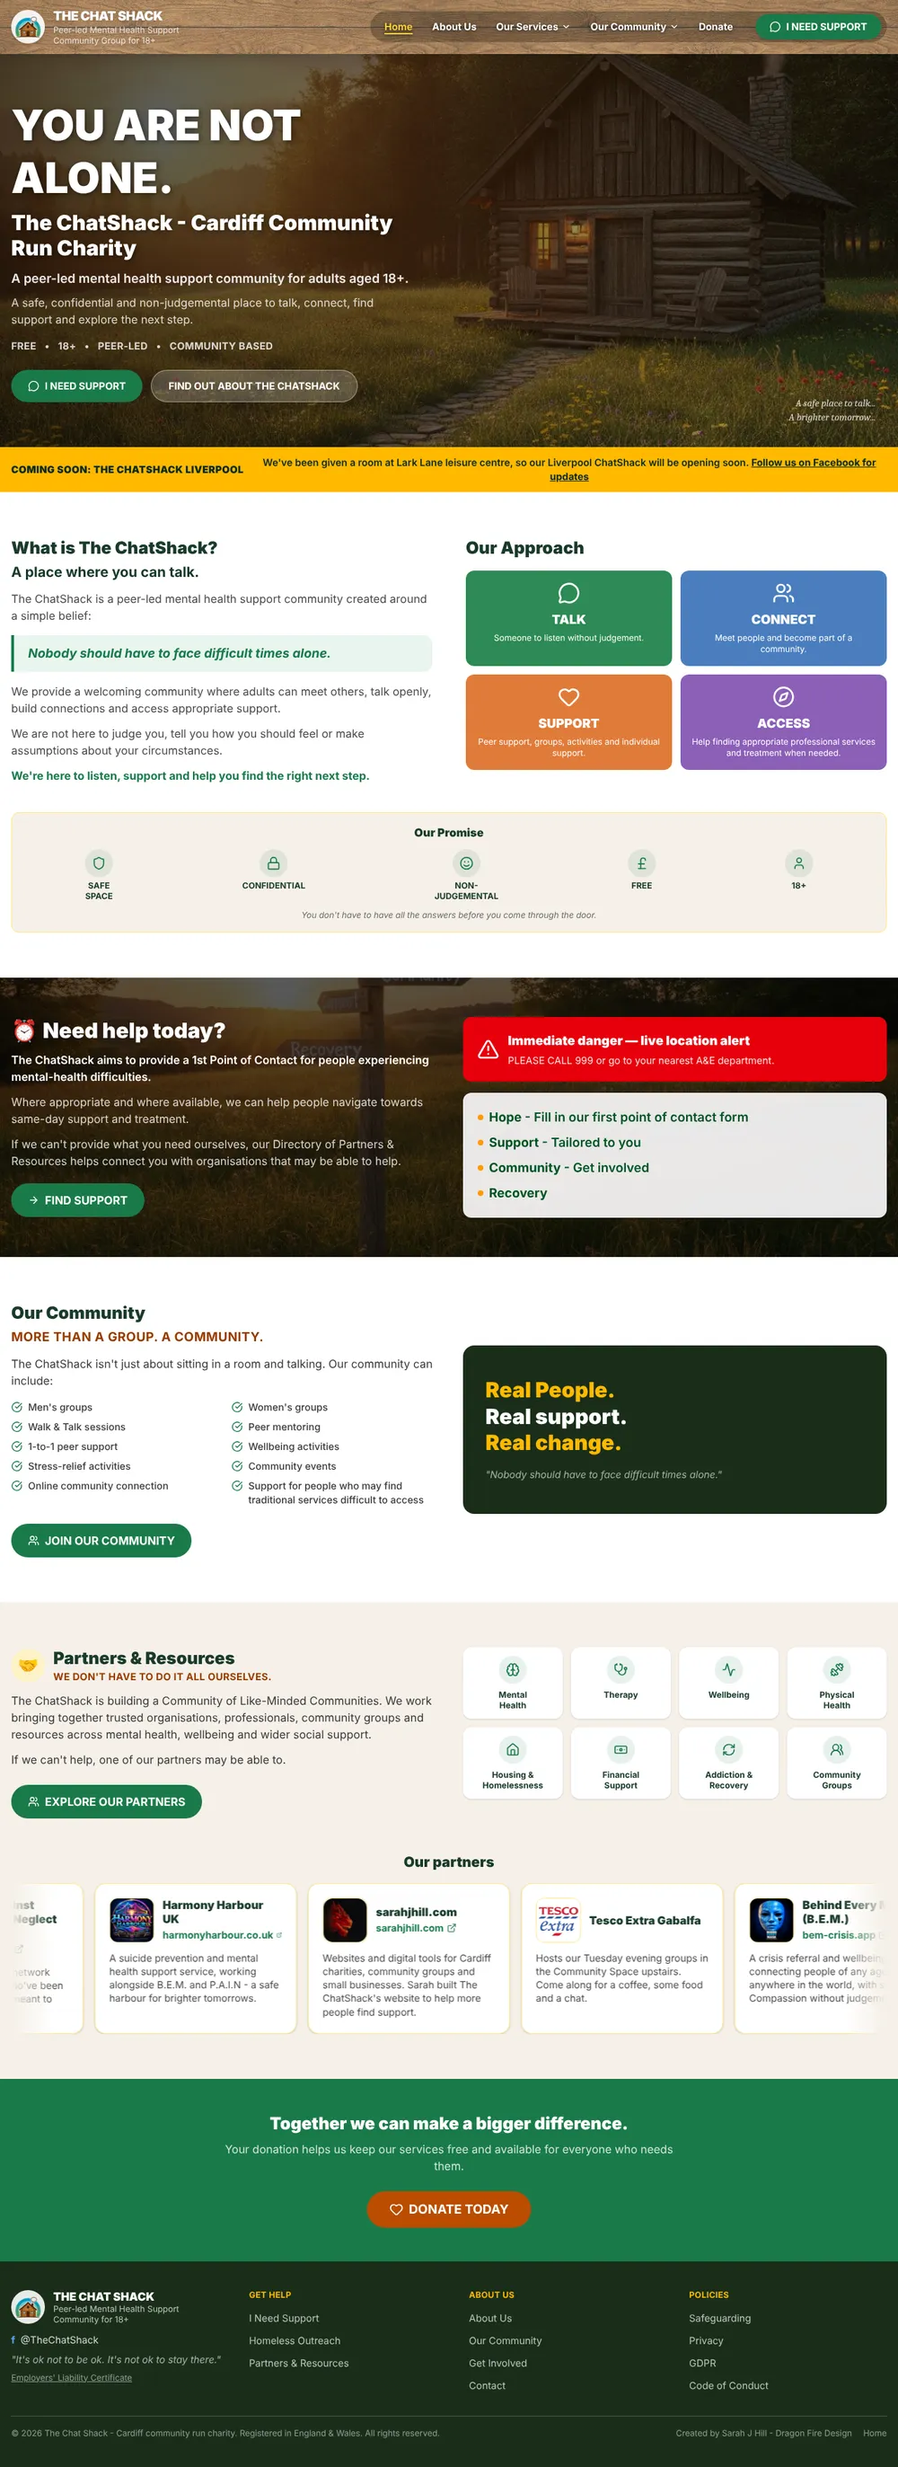
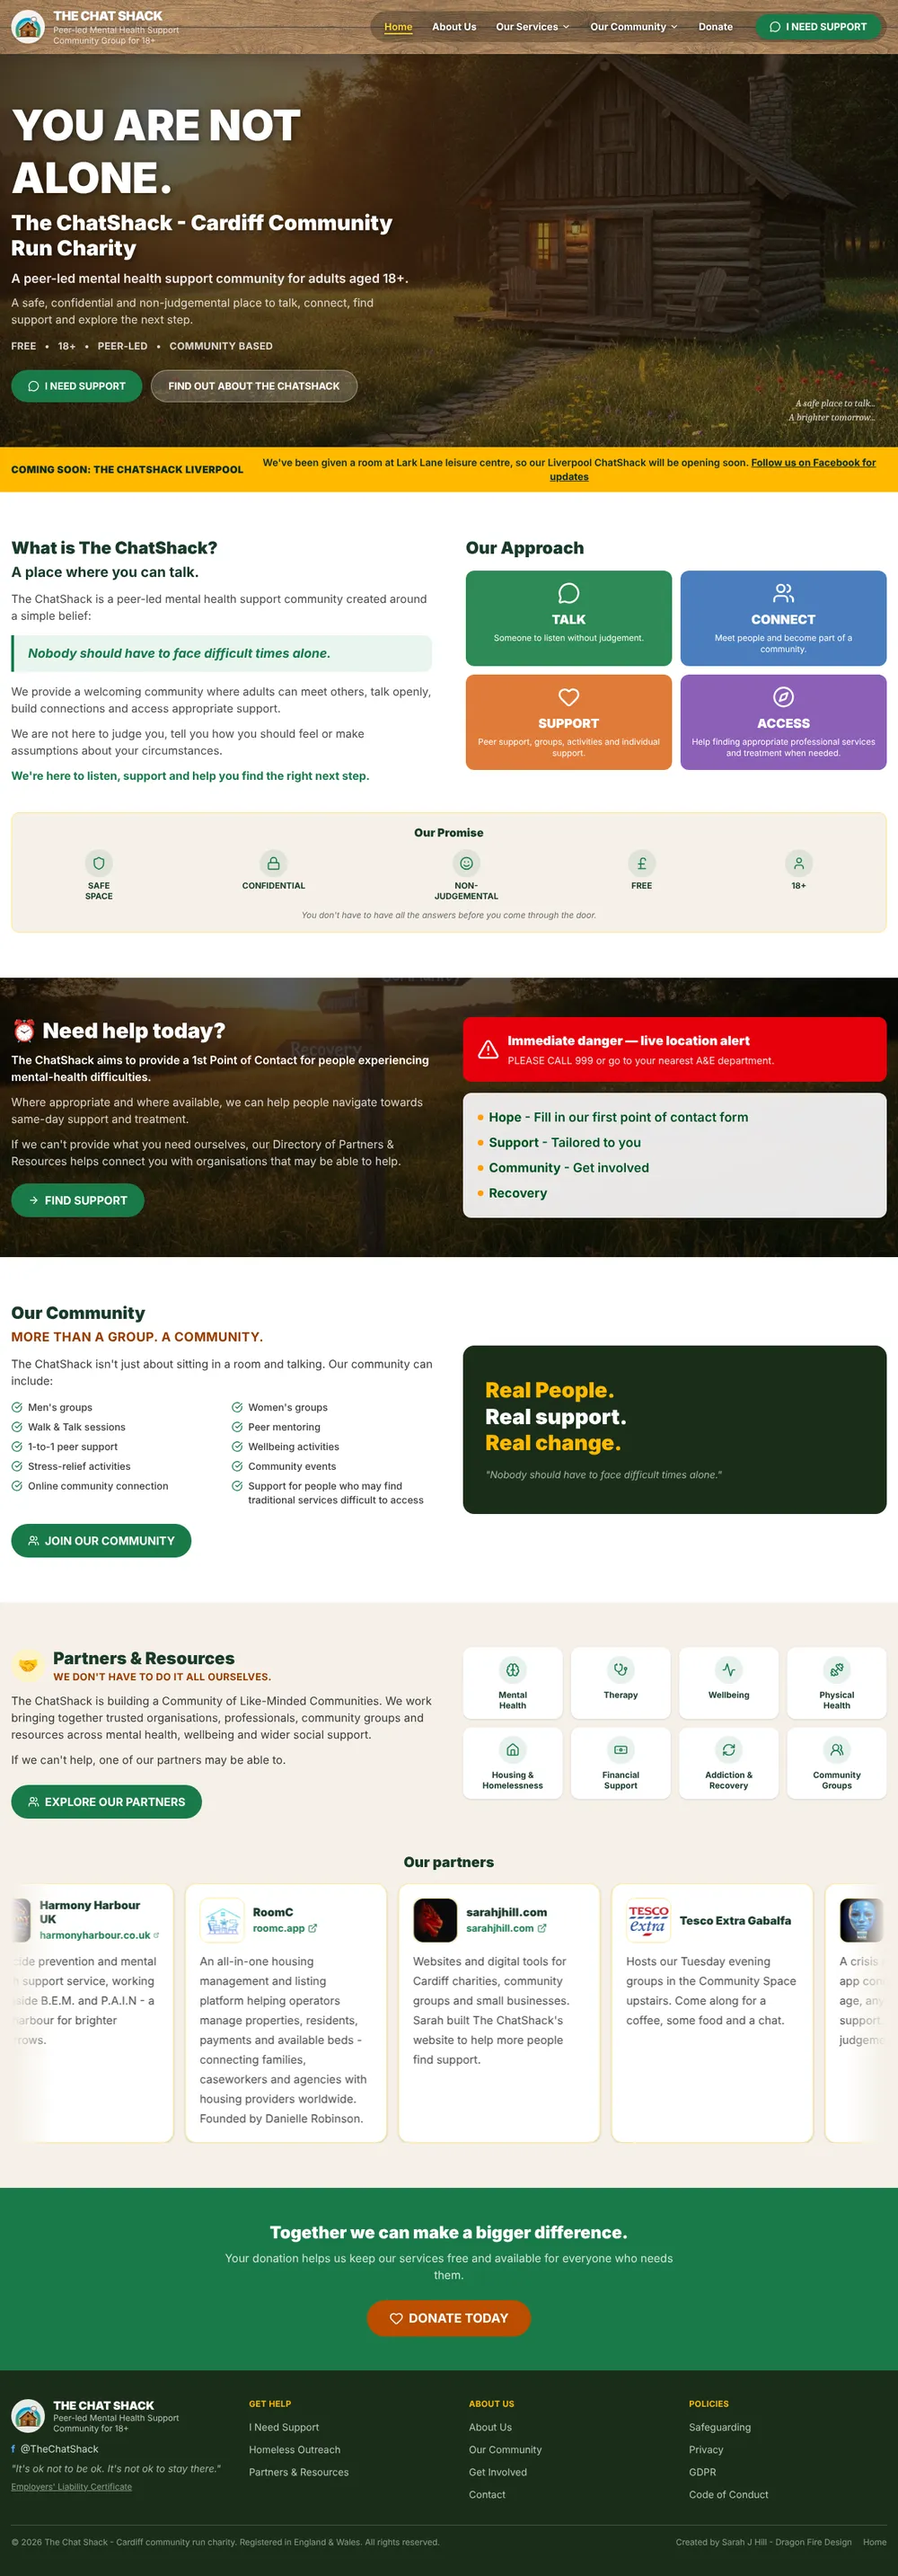
Add the chatshack to my profile

diff --git a/index.html b/index.html
@@ -209,8 +209,8 @@
   <div class="wrap quest-intro">
     <p class="eyebrow stand">Built and live &middot; the work</p>
     <h2 class="stand" id="quest-h">Real people. Real deadlines. Still warm.</h2>
-    <p class="lead stand"><span class="q-lead-desk">Scroll and my dragon flies you through the lot &mdash; four worlds, 11 quests.
-      Every stop opens a window on the real site, top to bottom. Scroll inside it.</span><span class="q-lead-mob">Eleven real projects. Tap a world or swipe through them, and scroll inside each phone to see the whole live site.</span></p>
+    <p class="lead stand"><span class="q-lead-desk">Scroll and my dragon flies you through the lot &mdash; four worlds, 10 quests.
+      Every stop opens a window on the real site, top to bottom. Scroll inside it.</span><span class="q-lead-mob">Ten real projects. Tap a world or swipe through them, and scroll inside each phone to see the whole live site.</span></p>
     <div class="cta-row stand quest-start">
       <a class="btn btn-primary" href="#q-flight" data-quest="start">Scroll to fly through my work &#9660;</a>
       <button class="btn btn-ghost" type="button" data-quest="list" aria-pressed="false">Skip it &mdash; show me the list</button>
@@ -221,7 +221,7 @@
     <div class="q-stage"></div>
   </div>
 
-  <p class="wrap q-swipe" aria-hidden="true">Swipe through 11 projects &rarr;</p>
+  <p class="wrap q-swipe" aria-hidden="true">Swipe through 10 projects &rarr;</p>
   <div class="wrap q-log" id="q-log">
     <section class="q-lvl" data-lvl="1" data-name="Charity &amp; community" data-place="Cardiff &amp; the Valleys" aria-labelledby="q-lvl-1">
       <h3 class="q-lvl-h" id="q-lvl-1"><span>World 1 &middot; Cardiff &amp; the Valleys</span> Charity &amp; community</h3>
@@ -240,7 +240,7 @@
           </div>
         </div>
         <div class="qi-body">
-          <p class="qi-kicker"><span class="qi-num">Quest 01/11</span> Charity &amp; community</p>
+          <p class="qi-kicker"><span class="qi-num">Quest 01/10</span> Charity &amp; community</p>
           <h4 class="qi-title">Cardiff Community Meals</h4>
           <p class="qi-quest"><b>The quest</b> Neighbours fund a meal, a local kitchen cooks it, and someone having a hard time gets fed &mdash; without being made to feel like a charity case.</p>
           <details class="qi-why" open><summary>Why it&rsquo;s built this way</summary><p>Bilingual from the first line, Cymraeg first and English one tap away, because it&rsquo;s Cardiff&rsquo;s. Plain HTML, CSS and JavaScript on Bootstrap 5 with no build step, so it opens on any phone and any volunteer can look after it. Every message on the community wall is checked by a human before it goes up &mdash; safeguarding by design.</p></details>
@@ -263,7 +263,7 @@
           </div>
         </div>
         <div class="qi-body">
-          <p class="qi-kicker"><span class="qi-num">Quest 02/11</span> Charity &amp; community</p>
+          <p class="qi-kicker"><span class="qi-num">Quest 02/10</span> Charity &amp; community</p>
           <h4 class="qi-title">Many Voices</h4>
           <p class="qi-quest"><b>The quest</b> A diversity and inclusion club run by students, for students &mdash; so belonging is the design, not an afterthought.</p>
           <details class="qi-why" open><summary>Why it&rsquo;s built this way</summary><p>Fraunces for warmth, Work Sans for easy reading, IBM Plex Mono for dates and labels. The palette deliberately dodges both &lsquo;corporate blue&rsquo; and the stock rainbow. Bootstrap 5 so it holds up on every screen a student owns.</p></details>
@@ -286,7 +286,7 @@
           </div>
         </div>
         <div class="qi-body">
-          <p class="qi-kicker"><span class="qi-num">Quest 03/11</span> Charity &amp; community</p>
+          <p class="qi-kicker"><span class="qi-num">Quest 03/10</span> Charity &amp; community</p>
           <h4 class="qi-title">Ummul Mumineen Academy</h4>
           <p class="qi-quest"><b>The quest</b> Wales&rsquo; first Muslim girls&rsquo; school, in Cardiff &mdash; a site that shows parents its Islamic ethos, its &lsquo;Good&rsquo; Estyn grades and the warmth of the place at a glance.</p>
           <p class="qi-links"><a class="qi-btn qi-btn--go" href="https://www.umawales.co.uk/" target="_blank" rel="noopener">Visit the live site &rarr;</a></p>
@@ -307,7 +307,7 @@
           </div>
         </div>
         <div class="qi-body">
-          <p class="qi-kicker"><span class="qi-num">Quest 04/11</span> Code Institute capstone</p>
+          <p class="qi-kicker"><span class="qi-num">Quest 04/10</span> Code Institute capstone</p>
           <h4 class="qi-title">Community Cooking Rota</h4>
           <p class="qi-quest"><b>The quest</b> Someone needs feeding for a while &mdash; a new baby, an operation, a loss. One organiser sets the dates, and the people who want to help claim the ones they can cook.</p>
           <details class="qi-why" open><summary>Why it&rsquo;s built this way</summary><p>Django, because it&rsquo;s a real permissions problem: organisers own their rotas, cooks can only claim and cancel, and phone numbers only show between the two people involved in a claim. PostgreSQL on Heroku, hand-written CSS Grid with no framework, and 35 automated tests guarding the rules.</p></details>
@@ -320,22 +320,22 @@
           <div class="qi-browser">
             <div class="qi-bar" aria-hidden="true"><i></i><i></i><i></i><span>chatshack.app</span></div>
             <div class="qi-scroll" tabindex="0" role="region" aria-label="The whole Chat Shack home page, scrollable">
-              <img src="assets/img/work/chatshack-desk.webp" width="1000" height="2746" loading="lazy" decoding="async" alt="Full-length screenshot of The Chat Shack website on a laptop">
+              <img src="assets/img/work/chatshack-desk.webp?v=20261116" width="1000" height="2867" loading="lazy" decoding="async" alt="Full-length screenshot of The Chat Shack home page on a laptop: a log cabin at dusk and the words You are not alone">
             </div>
           </div>
           <div class="qi-phone">
             <div class="qi-scroll" tabindex="-1">
-              <img src="assets/img/work/chatshack-phone.webp" width="480" height="4200" loading="lazy" decoding="async" alt="The Chat Shack on a phone">
+              <img src="assets/img/work/chatshack-phone.webp?v=20261116" width="480" height="4200" loading="lazy" decoding="async" alt="The Chat Shack home page on a phone">
             </div>
           </div>
         </div>
         <div class="qi-body">
-          <p class="qi-kicker"><span class="qi-num">Quest 05/11</span> Charity &amp; community &middot; live</p>
+          <p class="qi-kicker"><span class="qi-num">Quest 05/10</span> Charity &amp; community &middot; live</p>
           <h4 class="qi-title">The Chat Shack C.I.C.</h4>
-          <p class="qi-quest"><b>The quest</b> &ldquo;You are not alone.&rdquo; A peer-led mental health community in Cardiff needed a front door that feels safe the second you land &mdash; somewhere to talk, find support, sign up to help and give.</p>
-          <details class="qi-why" open><summary>Why it&rsquo;s built this way</summary><p>A React and TypeScript front end, built with Vite, so it&rsquo;s quick on any phone. Behind it, a Django REST back end on Heroku with PostgreSQL: the team edit the homepage themselves, every form lands safely, and volunteers book their own shifts. Donations and &lsquo;buy an item&rsquo; gifts &mdash; a sleeping bag, a hot meal &mdash; go through Stripe&rsquo;s secure checkout. Help-now and crisis links sit right at the top, because that&rsquo;s what matters most.</p></details>
+          <p class="qi-quest"><b>The quest</b> &ldquo;You are not alone.&rdquo; A free, peer-led mental health community for adults in Cardiff &mdash; now growing to Liverpool &mdash; needed a front door that feels safe the second you land. Somewhere to ask for help, find a group, volunteer or give, without a single hoop to jump through.</p>
+          <details class="qi-why" open><summary>Why it&rsquo;s built this way</summary><p>Help comes first: an &ldquo;I need support&rdquo; button in the header, a 999 and A&amp;E alert for anyone in danger, and a first-point-of-contact form so nobody has to make a phone call they&rsquo;re dreading. Behind it, a React and TypeScript site that stays quick on any phone, and a Django REST back end with PostgreSQL so the team edit the homepage themselves, every form lands safely and volunteers book their own shifts. Donations and &lsquo;buy an item&rsquo; gifts &mdash; a sleeping bag, a tent, a hot meal &mdash; go through Stripe&rsquo;s secure checkout, and a privacy-first cookie banner asks before it counts anything.</p></details>
           <ul class="qi-loot" aria-label="Built with"><li>React</li><li>TypeScript</li><li>Django REST</li><li>Stripe</li><li>PostgreSQL</li><li>Vite</li><li>Heroku</li></ul>
-          <p class="qi-links"><a class="qi-btn qi-btn--go" href="https://chatshack.app/" target="_blank" rel="noopener">Visit the live site &rarr;</a></p>
+          <p class="qi-links"><a class="qi-btn qi-btn--go" href="https://chatshack.app/" target="_blank" rel="noopener">Visit chatshack.app &rarr;</a><a class="qi-btn" href="https://chatshack.app/donate" target="_blank" rel="noopener">See the donate page</a></p>
         </div>
       </article>
     </section>
@@ -356,7 +356,7 @@
           </div>
         </div>
         <div class="qi-body">
-          <p class="qi-kicker"><span class="qi-num">Quest 06/11</span> Tools &amp; project management</p>
+          <p class="qi-kicker"><span class="qi-num">Quest 06/10</span> Tools &amp; project management</p>
           <h4 class="qi-title">The Dragon Fire Process</h4>
           <p class="qi-quest"><b>The quest</b> Nobody should have to type &ldquo;any update?&rdquo; Twelve phases, 69 guided tasks, simple forms, one place to upload your logo, photos and words &mdash; and a live page every client can sign in to.</p>
           <details class="qi-why" open><summary>Why it&rsquo;s built this way</summary><p>I&rsquo;m a studio of one, so nobody else notices what I skip &mdash; this does. Plain HTML, CSS and JavaScript with no server to babysit: it saves in the browser by default, with Supabase sign-in and Formspree client forms when they&rsquo;re wanted. Light and dark themes run on design tokens.</p></details>
@@ -364,33 +364,10 @@
           <p class="qi-links"><a class="qi-btn qi-btn--go" href="https://sarahjhill.com/project-os/app.html?guest=1" target="_blank" rel="noopener">Play the demo &rarr;</a><a class="qi-btn" href="https://github.com/sarahjhill/project-os" target="_blank" rel="noopener">See the code</a></p>
         </div>
       </article>
-      <article class="qi" id="q-carbmate" data-num="07">
-        <div class="qi-screens">
-          <div class="qi-browser">
-            <div class="qi-bar" aria-hidden="true"><i></i><i></i><i></i><span>carbmate.herokuapp.com</span></div>
-            <div class="qi-scroll" tabindex="0" role="region" aria-label="The whole CarbMate page, scrollable">
-              <img src="assets/img/work/carbmate-desk.webp" width="1000" height="2172" loading="lazy" decoding="async" alt="Full-length screenshot of CarbMate working out the carbs and a suggested dose for toast, a banana and a flat white">
-            </div>
-          </div>
-          <div class="qi-phone">
-            <div class="qi-scroll" tabindex="-1">
-              <img src="assets/img/work/carbmate-phone.webp" width="480" height="1041" loading="lazy" decoding="async" alt="CarbMate on a phone">
-            </div>
-          </div>
-        </div>
-        <div class="qi-body">
-          <p class="qi-kicker"><span class="qi-num">Quest 07/11</span> Tools &middot; personal project</p>
-          <h4 class="qi-title">CarbMate <small class="qi-status">Prototype</small></h4>
-          <p class="qi-quest"><b>The quest</b> A carb-counting and insulin bolus calculator, built because I&rsquo;m a type 1 diabetic who found every existing app either too fiddly or paywalled. Type your meal in plain English, check the carbs it finds, add your blood glucose &mdash; and see the suggested dose with every step of the maths shown.</p>
-          <details class="qi-why" open><summary>Why it&rsquo;s built this way</summary><p>A Python FastAPI back end with a rules engine that reads ordinary sentences (&ldquo;two slices of toast and a banana&rdquo;) and turns them into weighed portions. Safety first: every assumption is shown, every number can be changed, and it says loudly that it&rsquo;s a prototype &mdash; not a validated medical device.</p></details>
-          <ul class="qi-loot" aria-label="Built with"><li>Python</li><li>FastAPI</li><li>PostgreSQL</li><li>Rules engine</li><li>Heroku</li></ul>
-          <p class="qi-links"><a class="qi-btn qi-btn--go" href="https://carbmate-sarahhill-12830-3f599e1fab1c.herokuapp.com/" target="_blank" rel="noopener">Try the prototype &rarr;</a></p>
-        </div>
-      </article>
     </section>
     <section class="q-lvl" data-lvl="3" data-name="Business &amp; ecommerce" data-place="Market Town" aria-labelledby="q-lvl-3">
       <h3 class="q-lvl-h" id="q-lvl-3"><span>World 3 &middot; Market Town</span> Business &amp; ecommerce</h3>
-      <article class="qi" id="q-muslimah" data-num="08">
+      <article class="qi" id="q-muslimah" data-num="07">
         <div class="qi-screens">
           <div class="qi-browser">
             <div class="qi-bar" aria-hidden="true"><i></i><i></i><i></i><span>sarahjhill.com/muslimah-web-design</span></div>
@@ -405,7 +382,7 @@
           </div>
         </div>
         <div class="qi-body">
-          <p class="qi-kicker"><span class="qi-num">Quest 08/11</span> Business site</p>
+          <p class="qi-kicker"><span class="qi-num">Quest 07/10</span> Business site</p>
           <h4 class="qi-title">Muslimah Web Design</h4>
           <p class="qi-quest"><b>The quest</b> Web design and WordPress consulting for Muslim women, by a Muslim woman &mdash; halal guidance and the best result for the budget in hand.</p>
           <details class="qi-why" open><summary>Why it&rsquo;s built this way</summary><p>Real client work and reviews up front, because trust is the sale. Fraunces for warmth and Inter for clarity, on light hand-built pages that stay quick on any phone.</p></details>
@@ -413,7 +390,7 @@
           <p class="qi-links"><a class="qi-btn qi-btn--go" href="https://sarahjhill.com/muslimah-web-design/" target="_blank" rel="noopener">Visit the live site &rarr;</a></p>
         </div>
       </article>
-      <article class="qi qi--wip" id="q-ember" data-num="09">
+      <article class="qi qi--wip" id="q-ember" data-num="08">
         <div class="qi-screens">
           <div class="qi-browser">
             <div class="qi-bar" aria-hidden="true"><i></i><i></i><i></i><span>buntingandco.co.uk &middot; demo shop</span></div>
@@ -428,7 +405,7 @@
           </div>
         </div>
         <div class="qi-body">
-          <p class="qi-kicker"><span class="qi-num">Quest 09/11</span> In the forge &middot; ecommerce theme</p>
+          <p class="qi-kicker"><span class="qi-num">Quest 08/10</span> In the forge &middot; ecommerce theme</p>
           <h4 class="qi-title">Ember <small class="qi-status">In the forge</small></h4>
           <p class="qi-quest"><b>The quest</b> A marketplace theme for Shopify and WooCommerce &mdash; all the buzz of a marketplace, none of the tat.</p>
           <details class="qi-why" open><summary>Why it&rsquo;s built this way</summary><p>Phone-first, with an app-style bottom bar, category bubbles, lightning deals and shop-by-budget. Built twice &mdash; as a Shopify Online Store 2.0 theme and a WordPress block theme &mdash; so shop owners edit every word visually, no code.</p></details>
@@ -439,7 +416,7 @@
     </section>
     <section class="q-lvl" data-lvl="4" data-name="Hackathons &amp; team builds" data-place="The Arena" aria-labelledby="q-lvl-4">
       <h3 class="q-lvl-h" id="q-lvl-4"><span>World 4 &middot; The Arena</span> Hackathons &amp; team builds</h3>
-      <article class="qi" id="q-recipy" data-num="10">
+      <article class="qi" id="q-recipy" data-num="09">
         <div class="qi-screens">
           <div class="qi-browser">
             <div class="qi-bar" aria-hidden="true"><i></i><i></i><i></i><span>reci-py.herokuapp.com</span></div>
@@ -454,7 +431,7 @@
           </div>
         </div>
         <div class="qi-body">
-          <p class="qi-kicker"><span class="qi-num">Quest 10/11</span> Code Institute hackathon &middot; team of 5</p>
+          <p class="qi-kicker"><span class="qi-num">Quest 09/10</span> Code Institute hackathon &middot; team of 5</p>
           <h4 class="qi-title">reci.py</h4>
           <p class="qi-quest"><b>The quest</b> A community cookbook for people who write code &mdash; and need feeding. Simple recipes, healthy meals, for coders.</p>
           <details class="qi-why" open><summary>Why it&rsquo;s built this way</summary><p>Django with allauth sign-in, a moderation queue so every recipe is reviewed before it&rsquo;s published, comments and a notification inbox. Built as a team with Kieron, Corrine, Charles and Qasim &mdash; my part was the paginated &lsquo;browse recipes&rsquo; home page.</p></details>
@@ -462,7 +439,7 @@
           <p class="qi-links"><a class="qi-btn qi-btn--go" href="https://reci-py-93c536d719a2.herokuapp.com/" target="_blank" rel="noopener">Visit the live site &rarr;</a><a class="qi-btn" href="https://github.com/lion695/reci.py" target="_blank" rel="noopener">See the code</a></p>
         </div>
       </article>
-      <article class="qi" id="q-mission" data-num="11">
+      <article class="qi" id="q-mission" data-num="10">
         <div class="qi-screens">
           <div class="qi-browser">
             <div class="qi-bar" aria-hidden="true"><i></i><i></i><i></i><span>azizr96.github.io/mission-control</span></div>
@@ -477,7 +454,7 @@
           </div>
         </div>
         <div class="qi-body">
-          <p class="qi-kicker"><span class="qi-num">Quest 11/11</span> Bootcamp hackathon &middot; team of 4</p>
+          <p class="qi-kicker"><span class="qi-num">Quest 10/10</span> Bootcamp hackathon &middot; team of 4</p>
           <h4 class="qi-title">Mission Control</h4>
           <p class="qi-quest"><b>The quest</b> A Pomodoro focus timer with a mission list, so the clock and the to-do list finally live on one screen.</p>
           <details class="qi-why" open><summary>Why it&rsquo;s built this way</summary><p>Tomato red on near-black &mdash; a nod to &lsquo;Pomodoro&rsquo; &mdash; with every colour pair checked against WCAG. Vanilla JavaScript, keyboard and screen-reader friendly, and your missions survive a refresh. Built with Rauhan, Amir and Davy.</p></details>
